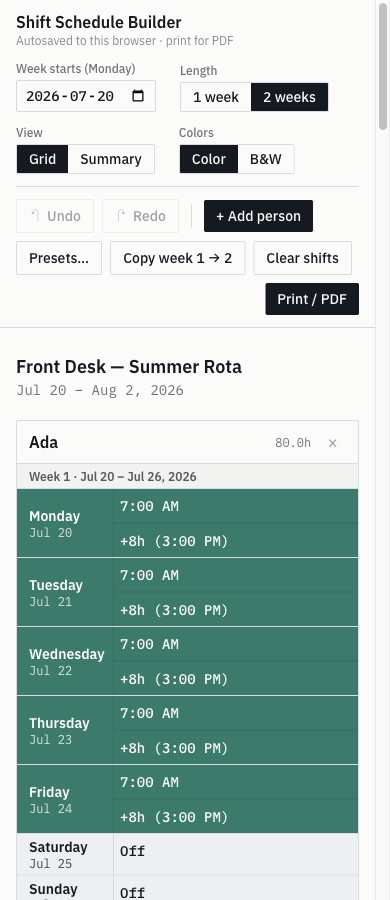
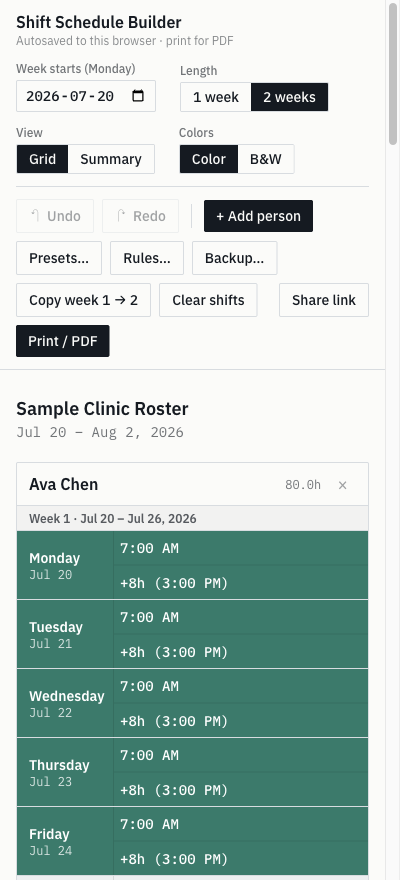
docs: refresh screenshots, social image, and copy for current features
Bring the marketing surfaces up to date with rules, backup, print-scope,
and share:
- Regenerate the grid, summary, and mobile screenshots (current toolbar and
  a polished sample roster) and add a rules-warnings screenshot to the README.
- Rebuild og-image.png with the current UI and feature pills; refresh the
  README data section, SEO title/description/keywords, JSON-LD feature list,
  and web-manifest copy.
- Add CHANGELOG entries for 1.1.0, 1.2.0, and 1.3.0; mark the shipped items
  (rule warnings, backup) in PLAN.md.

diff --git a/index.html b/index.html
@@ -16,11 +16,11 @@
     </title>
     <meta
       name="description"
-      content="A free, offline shift scheduler. Build a two-week staff roster (rota) in your browser and print it straight to PDF. No sign-up, no server — your data stays on your device."
+      content="A free, offline shift scheduler. Build a two-week staff roster in your browser, check it against your own coverage and rest rules, back it up to a file, and print straight to PDF. No sign-up, no server, your data stays on your device."
     />
     <meta
       name="keywords"
-      content="shift scheduler, staff roster maker, rota maker, employee schedule, work schedule template, shift planner, print schedule to PDF, free rota template, staff scheduling app"
+      content="shift scheduler, staff roster maker, rota maker, employee schedule, work schedule template, shift planner, print schedule to PDF, free rota template, staff scheduling app, coverage checker, rest between shifts, overtime warning, schedule backup"
     />
     <meta name="author" content="Bhavin Virani" />
     <meta name="robots" content="index, follow" />
@@ -41,7 +41,7 @@
     />
     <meta
       property="og:description"
-      content="Build a two-week staff roster in your browser and print it to PDF. No account, no server, works offline."
+      content="Build a two-week staff roster in your browser, catch coverage gaps and rest or overtime problems with your own rules, back it up to a file, and print to PDF. No account, no server, works offline."
     />
     <meta
       property="og:url"
@@ -55,7 +55,7 @@
     <meta property="og:image:height" content="630" />
     <meta
       property="og:image:alt"
-      content="The Shift Schedule Builder grid, color-coded by shift time, with an hours summary."
+      content="Shift Schedule Builder: build a staff roster and print it to PDF, showing the color-coded two-week shift grid."
     />
 
     <!-- Twitter / X card -->
@@ -66,7 +66,7 @@
     />
     <meta
       name="twitter:description"
-      content="Build a two-week staff roster in your browser and print it to PDF. No account, no server, works offline."
+      content="Build a two-week staff roster in your browser, catch coverage gaps and rest or overtime problems with your own rules, back it up to a file, and print to PDF. No account, no server, works offline."
     />
     <meta
       name="twitter:image"
@@ -80,7 +80,7 @@
         "@type": "WebApplication",
         "name": "Shift Schedule Builder",
         "url": "https://bhavinvirani.github.io/Scheduler/",
-        "description": "A free, offline web app for building two-week staff shift schedules and printing them to PDF. No account or server required.",
+        "description": "A free, offline web app for building two-week staff shift schedules, checking them against your own coverage and rest rules, backing them up to a file, and printing to PDF. No account or server required.",
         "applicationCategory": "BusinessApplication",
         "operatingSystem": "Any (web browser)",
         "browserRequirements": "Requires JavaScript",
@@ -89,12 +89,19 @@
         "author": { "@type": "Person", "name": "Bhavin Virani" },
         "license": "https://www.apache.org/licenses/LICENSE-2.0",
         "featureList": [
-          "Two-week shift grid",
+          "One or two week shift grid",
+          "Shifts as start time plus length, overnight-aware",
+          "Off, PTO and holiday day statuses",
           "Reusable shift presets and one-tap fill",
-          "Undo and redo",
+          "User-defined rule checks: coverage, rest between shifts, weekly hours, consecutive days",
+          "On-screen coverage and rule warnings",
           "Hours summary per person",
+          "Undo and redo",
           "Color or black-and-white printing",
-          "Print to PDF",
+          "Print to PDF, choose schedule only or with the hours page",
+          "Backup and restore to a file, auto-save on Chrome and Edge",
+          "Share a read-only roster link",
+          "Mobile card layout",
           "Works offline, no account"
         ],
         "screenshot": "https://bhavinvirani.github.io/Scheduler/og-image.png"

diff --git a/PLAN.md b/PLAN.md
@@ -24,7 +24,8 @@ This document is the spec. Hand it to Claude Code and work phase by phase.
 - **Cell states beyond shifts:** `empty | shift | off | pto | holiday`. Modelled as a tagged union from day one. Retrofitting this later means touching every cell read site.
 - **Day headers show dates** (`Mon` over `Jul 27`). Prevents the "which Monday?" error that a bare weekday name invites.
 - **Team size up to ~25 rows.** Table gets a sticky header row and sticky name column.
-- **Rule warnings are Phase 3**, but the data model supports them from Phase 1 (see §3).
+- **Rule warnings** were planned for Phase 3 and shipped in v1.2.0 as user-defined,
+  configurable checks; the data model supported them from Phase 1 (see §3).
 
 ---
 
@@ -250,11 +251,18 @@ This is the whole reason to build the app rather than keep using Excel. A spread
 - Autosave the whole `Schedule` to `localStorage` on change, debounced ~300ms.
 - Key: `shift-scheduler:v1:current`
 - **Guard the load.** Validate the parsed shape and `version`; on any failure, fall back to a fresh schedule and don't throw. A half-written or hand-edited blob should never white-screen the app. Treat localStorage as untrusted input — because it is.
-- Sharing is a **view-only link**, not a file: the schedule is encoded into the URL hash (`#r=…`) by a compact, dependency-free codec (`src/lib/shareCodec.ts`) and opened read-only (`SharedRosterView`). The originally-planned JSON export/import was dropped. To reuse a fortnight, keep the printed PDF or the link, or use **Copy week 1 → 2**.
+- Presets and rules have their own `localStorage` keys (`…:presets`, `…:rules`), edited through pure reducers, independent of the schedule and its undo history.
+- **Sharing** is a **view-only link**: the schedule is encoded into the URL hash (`#r=…`) by a compact, dependency-free codec (`src/lib/shareCodec.ts`) and opened read-only (`SharedRosterView`).
+- **Backup** (added v1.3.0) is the durable copy: everything (schedule + presets + rules) serializes to one versioned JSON file the user controls — Download/Restore on any browser, or a File System Access file that auto-saves on Chromium (`src/lib/backupCodec.ts`, `src/state/BackupContext.tsx`). `localStorage` stays primary; the file is a mirror and recovery source. Nothing is uploaded.
 
 ---
 
 ## 8. Phases
+
+> **Status:** Phases 1–3 have all shipped, plus later additions — a print-scope
+> choice (v1.1.0), user-defined rule checks (v1.2.0), and backup/restore to a
+> file (v1.3.0). The roadmap below is kept for context. "JSON export / import"
+> shipped as **Backup**; "Rule warnings" shipped as user-configurable rules.
 
 Ship each phase as a working, committed state. Do not start the next until print preview passes.
 

diff --git a/CHANGELOG.md b/CHANGELOG.md
@@ -4,6 +4,44 @@ All notable changes to this project are documented here. The format is based on
 [Keep a Changelog](https://keepachangelog.com/en/1.1.0/), and this project aims
 to follow [Semantic Versioning](https://semver.org/spec/v2.0.0.html).
 
+## [1.3.0] - 2026-07-24
+
+### Added
+
+- **Backup and restore.** Save the whole setup (schedule, presets, and rules) to
+  a single versioned JSON file and restore it on any browser or device — no
+  backend, nothing uploaded. On Chrome and Edge you can connect a file that
+  auto-saves on every change; drop it in a synced folder (Drive, Dropbox, iCloud)
+  for cross-device use. `localStorage` stays primary; the file is a mirror and
+  recovery source, and the app offers to load a file that is newer than this
+  browser rather than overwriting silently.
+
+## [1.2.0] - 2026-07-24
+
+### Added
+
+- **User-defined rule checks.** Turn on your own checks and the roster flags
+  whatever breaks them, on screen only: minimum daily coverage, minimum rest
+  between shifts, weekly-hours cap and floor, maximum consecutive days, maximum
+  shifts per week, and minimum days off per week. Each is configurable and can
+  apply to everyone or to specific people. Warnings list in a panel (click to
+  jump), mark the offending cells, and flag under-covered day headers — never on
+  the printout.
+
+## [1.1.0] - 2026-07-24
+
+### Added
+
+- **Print scope choice.** Print / PDF now asks whether to include just the
+  schedule (one page) or the schedule plus the hours page (two pages).
+- Scheduling a person is blocked until they have a name, so a blank row can't be
+  filled in by mistake.
+
+### Changed
+
+- Releases are now cut automatically on a successful deploy (version derived from
+  conventional commits), so the published version always matches what is live.
+
 ## [1.0.0] - 2026-07-24
 
 First public release: a complete, no-backend shift-roster builder that prints to
@@ -41,4 +79,7 @@ PDF.
 - Contribution setup: `CONTRIBUTING.md`, issue and pull-request templates,
   `CODEOWNERS`, a CI workflow, and protected `main`.
 
+[1.3.0]: https://github.com/bhavinvirani/Scheduler/releases/tag/v1.3.0
+[1.2.0]: https://github.com/bhavinvirani/Scheduler/releases/tag/v1.2.0
+[1.1.0]: https://github.com/bhavinvirani/Scheduler/releases/tag/v1.1.0
 [1.0.0]: https://github.com/bhavinvirani/Scheduler/releases/tag/v1.0.0

diff --git a/README.md b/README.md
@@ -59,6 +59,10 @@ lives in your browser.
 | **Saves itself, works offline**  | Everything is kept in your browser and there's nothing to sign into.                                                                                                                          |
 | **Share a view-only link**       | Send a link and your team opens a read-only roster they can view and print. No account or app, and it never touches their own saved schedule.                                                 |
 
+**Rules you set, checked as you build:** coverage, rest between shifts, weekly hours, days in a row. Anything that breaks a rule is flagged on screen (never on the printout), with the offending cells ringed and a list you can click to jump to each.
+
+![Rule warnings panel listing the issues, with the affected cells ringed and the under-covered day marked](docs/screenshots/rules.png)
+
 <table>
 <tr>
 <td width="62%"><b>The hours page (prints as page 2)</b><br/><img src="docs/screenshots/summary.png" alt="Hours summary page" /></td>
